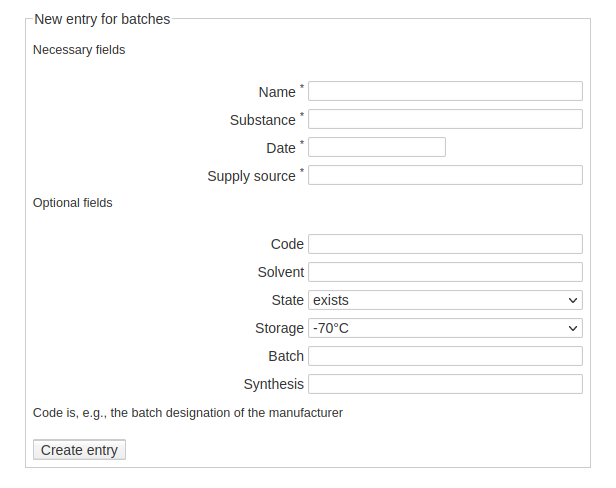
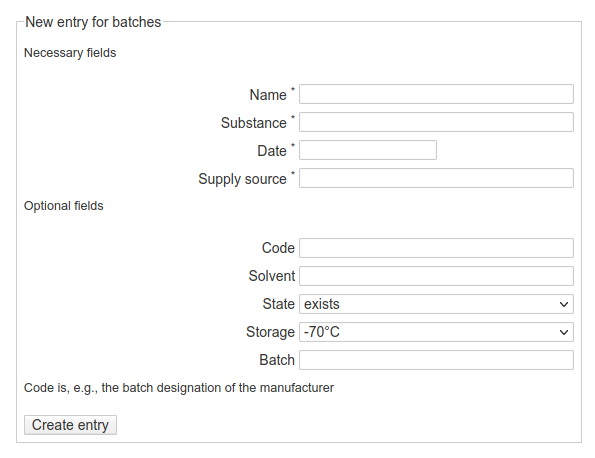
Remove synthesis from batches; add some preliminary screenshots

diff --git a/docs/user/measurements.rst b/docs/user/measurements.rst
@@ -2,8 +2,40 @@ Measurements
 ============
 
 
+Create a new labbook entry
+--------------------------
 
 .. figure:: ../images/measurement-form.png
     :align: center
 
     Web-form for creating a new labbook entry for an individual measurement. As you can see, the reference to a sample is one of the required fields, and here, you will enter the sample number. Furthermore, depending on the method chosen, additional form fields may show up.
+
+
+Some comments on the fields of the form:
+
+* difference between obligatory and optional fields
+* different types of fields (text, date, select)
+* a measurement is always performed on a sample
+* different experiments can have different sets of additional parameters
+
+
+A first look at the labbook entry
+---------------------------------
+
+
+
+
+.. figure:: ../images/labbook-entry.png
+    :align: center
+
+    A first glimpse at a newly created labbook entry. Besides an overview of the structured metadata entered via the web-form, this page contains a chronological protocol of what has been done, followed by a series of sections that you can fully adapt to your liking. Here, it is comments, analysis, further plans, and documentation. The latter is used to store an extended set of structured metadata recorded during data acquisition, *e.g.* in the Infofile format.
+
+
+.. important::
+
+    To edit any of the information in the structured metadata block, do not use the edit button on the right margin, as you would do for all the other sections, but rather the edit button directly attached to the metadata block on its lower left. The difference between the two is that with the left one you get a form similar to the one used for entering the metadata in the first place, while the right edit button lets you edit the DokuWiki syntax for this metadata block.
+
+
+.. todo::
+
+    Replace screenshots of templates with actual overview pages with content.

diff --git a/docs/user/batches.rst b/docs/user/batches.rst
@@ -2,8 +2,37 @@ Batches
 =======
 
 
+Create a new batch
+------------------
 
 .. figure:: ../images/batch-form.png
     :align: center
 
     Web-form for creating a new entry for a batch. While there is a rather small set of required fields, a larger list of optional fields can be filled by the user if applicable. As a rule of thumb, whatever information is (easily) available upon creating a new entry should be entered.
+
+
+Some comments on the fields of the form:
+
+* difference between obligatory and optional fields
+* different types of fields (text, date, select)
+* a batch can be derived from another batch
+
+
+Overview of a batch
+-------------------
+
+.. figure:: ../images/batch-overviewpage.png
+    :align: center
+
+    Overview page of a newly created batch. Besides an overview of the structured metadata entered via the web-form, two overview tables are automatically created, one with the samples derived from this batch, and one with batches derived from this batch. Any comments and additional information should be added below these tables.
+
+
+.. important::
+
+    To edit any of the information in the structured metadata block, do not use the edit button on the right margin, as you would do for all the other sections, but rather the edit button directly attached to the metadata block on its lower left. The difference between the two is that with the left one you get a form similar to the one used for entering the metadata in the first place, while the right edit button lets you edit the DokuWiki syntax for this metadata block.
+
+
+.. todo::
+
+    Replace screenshots of templates with actual overview pages with content.
+

diff --git a/docs/user/samples.rst b/docs/user/samples.rst
@@ -3,7 +3,37 @@ Samples
 
 
 
+Create a new sample
+-------------------
+
 .. figure:: ../images/sample-form.png
     :align: center
 
     Web-form for creating a new entry for a sample. While there is a rather small set of required fields, a larger list of optional fields can be filled by the user if applicable. As a rule of thumb, whatever information is (easily) available upon creating a new entry should be entered.
+
+
+Some comments on the fields of the form:
+
+* difference between obligatory and optional fields
+* different types of fields (text, date, select)
+* a sample is always derived from a batch
+
+
+Overview of a sample
+--------------------
+
+
+.. figure:: ../images/sample-overviewpage.png
+    :align: center
+
+    Overview page of a newly created sample. Besides an overview of the structured metadata entered via the web-form, ab overview table is automatically created listing all measurements that have been carried out on this sample.
+
+
+.. important::
+
+    To edit any of the information in the structured metadata block, do not use the edit button on the right margin, as you would do for all the other sections, but rather the edit button directly attached to the metadata block on its lower left. The difference between the two is that with the left one you get a form similar to the one used for entering the metadata in the first place, while the right edit button lets you edit the DokuWiki syntax for this metadata block.
+
+
+.. todo::
+
+    Replace screenshots of templates with actual overview pages with content.

diff --git a/docs/admin/forms_templates.rst b/docs/admin/forms_templates.rst
@@ -64,4 +64,4 @@ Overview tables
 Footnotes
 =========
 
-.. [#note] Is it possible to setup interwiki links from within the admin interface?
+.. [#note] Is it possible to setup interwiki links from within the admin interface? Yes, using the ``configuration file manager`` plugin
